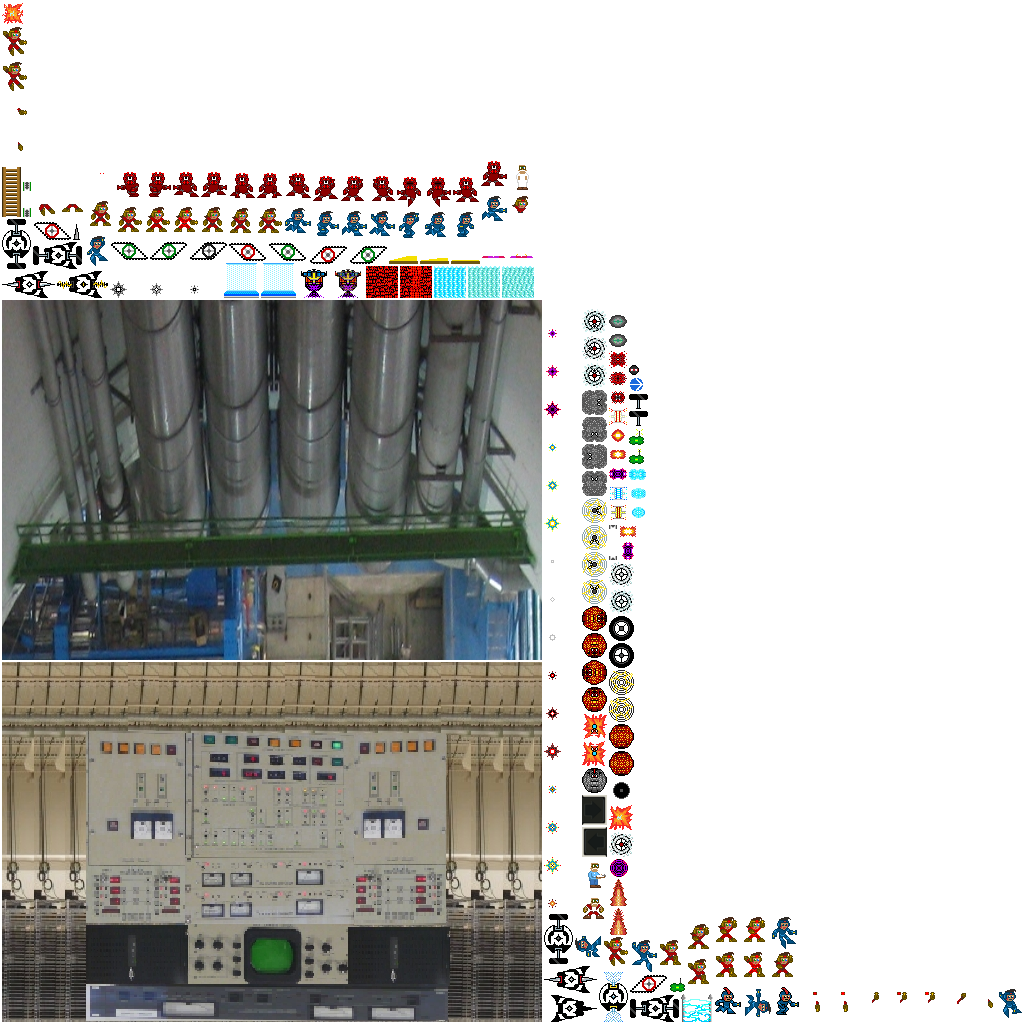
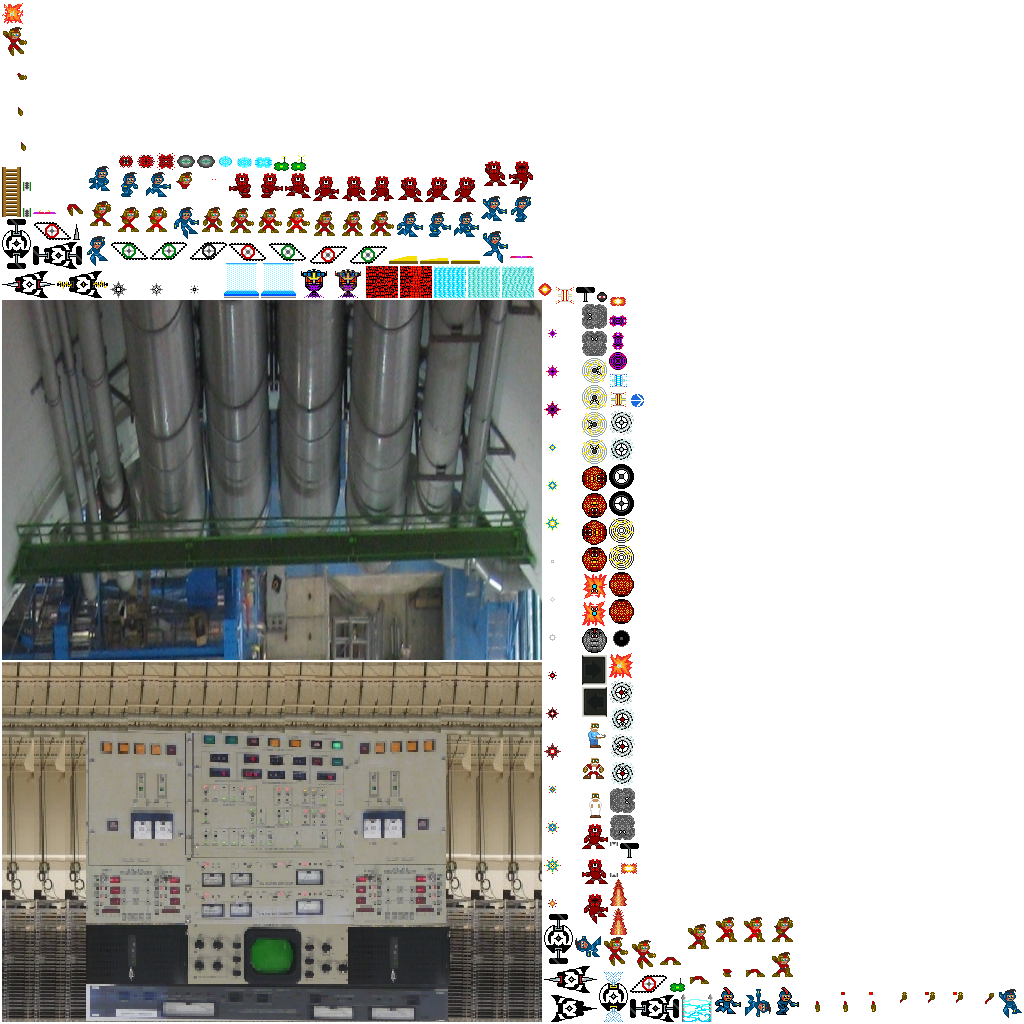
added arm animations and implemented stride render

diff --git a/core/src/com/udacity/gamedev/gigagal/util/AssetManager.java b/core/src/com/udacity/gamedev/gigagal/util/AssetManager.java
@@ -134,6 +134,9 @@ public final class AssetManager implements AssetErrorListener {
         public final AtlasRegion clench;
         public final AtlasRegion legsStand;
         public final AtlasRegion legsFall;
+        public final Animation armCurl;
+        public final Animation armSwing;
+        public final Animation legsStride;
         public final Animation pointForward;
         public final Animation pointUp;
         public final Animation pointDown;
@@ -197,6 +200,23 @@ public final class AssetManager implements AssetErrorListener {
             lowerFrames.add(atlas.findRegion(Constants.ARM_LOWER_1));
             lowerFrames.add(atlas.findRegion(Constants.ARM_LOWER_2));
             pointDown = new Animation(Constants.SIDESWIPE_FRAME_DURATION, lowerFrames, PlayMode.LOOP);
+
+            Array<AtlasRegion> legStrideFrames = new Array<AtlasRegion>();
+            legStrideFrames.add(atlas.findRegion(Constants.LEGS_STRIDE_2));
+            legStrideFrames.add(atlas.findRegion(Constants.LEGS_STRIDE_1));
+            legStrideFrames.add(atlas.findRegion(Constants.LEGS_STRIDE_2));
+            legStrideFrames.add(atlas.findRegion(Constants.LEGS_STRIDE_3));
+            legsStride = new Animation(Constants.SIDESWIPE_FRAME_DURATION, legStrideFrames, PlayMode.LOOP);
+
+            Array<AtlasRegion> armSwingFrames = new Array<AtlasRegion>();
+            armSwingFrames.add(atlas.findRegion(Constants.ARM_CLENCH));
+            armSwingFrames.add(atlas.findRegion(Constants.ARM_RELAX));
+            armSwing = new Animation(Constants.SIDESWIPE_FRAME_DURATION, armSwingFrames, PlayMode.LOOP);
+
+            Array<AtlasRegion> armCurlFrames = new Array<AtlasRegion>();
+            armCurlFrames.add(atlas.findRegion(Constants.ARM_RELEASE));
+            armCurlFrames.add(atlas.findRegion(Constants.ARM_CURL));
+            armCurl = new Animation(Constants.SIDESWIPE_FRAME_DURATION, armCurlFrames, PlayMode.LOOP);
 
             stand = atlas.findRegion(Constants.STAND);
             standShoot = atlas.findRegion(Constants.STAND_SHOOT);

diff --git a/core/src/com/udacity/gamedev/gigagal/entity/Avatar.java b/core/src/com/udacity/gamedev/gigagal/entity/Avatar.java
@@ -1494,12 +1494,16 @@ public class Avatar extends Entity implements Impermeable, Humanoid {
         switch (action) {
             case STANDING:
                 backArm = AssetManager.getInstance().getAvatarAssets().relax;
-                frontArm = AssetManager.getInstance().getAvatarAssets().pointForward.getKeyFrame(0);
+                frontArm = AssetManager.getInstance().getAvatarAssets().release;
                 shoot = AssetManager.getInstance().getAvatarAssets().pointForward;
                 legs = AssetManager.getInstance().getAvatarAssets().legsStand;
                 break;
             case STRIDING:
-//                region = AssetManager.getInstance().getAvatarAssets().stride.getKeyFrame(Math.min(strideAcceleration * strideAcceleration, strideAcceleration));
+                float strideFrame = Math.min(strideAcceleration * strideAcceleration, strideAcceleration);
+                backArm = AssetManager.getInstance().getAvatarAssets().armSwing.getKeyFrame(strideFrame / 2);
+                frontArm = AssetManager.getInstance().getAvatarAssets().armCurl.getKeyFrame(strideFrame / 2);
+                shoot = AssetManager.getInstance().getAvatarAssets().pointForward;
+                legs = AssetManager.getInstance().getAvatarAssets().legsStride.getKeyFrame(strideFrame);
                 break;
             case CLIMBING:
 //                region = AssetManager.getInstance().getAvatarAssets().climb;

diff --git a/core/src/com/udacity/gamedev/gigagal/util/Constants.java b/core/src/com/udacity/gamedev/gigagal/util/Constants.java
@@ -99,6 +99,7 @@ public final class Constants {
     public static final String ARM_RELEASE = "avatar-arm-release";
     public static final String ARM_RELAX = "avatar-arm-relax";
     public static final String ARM_CLENCH = "avatar-arm-clench";
+    public static final String ARM_CURL = "avatar-arm-curl";
     public static final String ARM_SHOOT = "avatar-arm-shoot";
     public static final String ARM_RAISE = "avatar-arm-raise";
     public static final String ARM_RAISE_1 = "avatar-arm-raise-1";
@@ -112,6 +113,9 @@ public final class Constants {
     public static final String ARM_REACH = "avatar-arm-reach";
     public static final String LEGS_STAND = "avatar-legs-stand";
     public static final String LEGS_FALL = "avatar-legs-fall";
+    public static final String LEGS_STRIDE_1 = "avatar-legs-stride-1";
+    public static final String LEGS_STRIDE_2 = "avatar-legs-stride-2";
+    public static final String LEGS_STRIDE_3 = "avatar-legs-stride-3";
 
     public static final String STAND = "avatar-stand";
     public static final String STAND_SHOOT = "avatar-stand-shoot";
